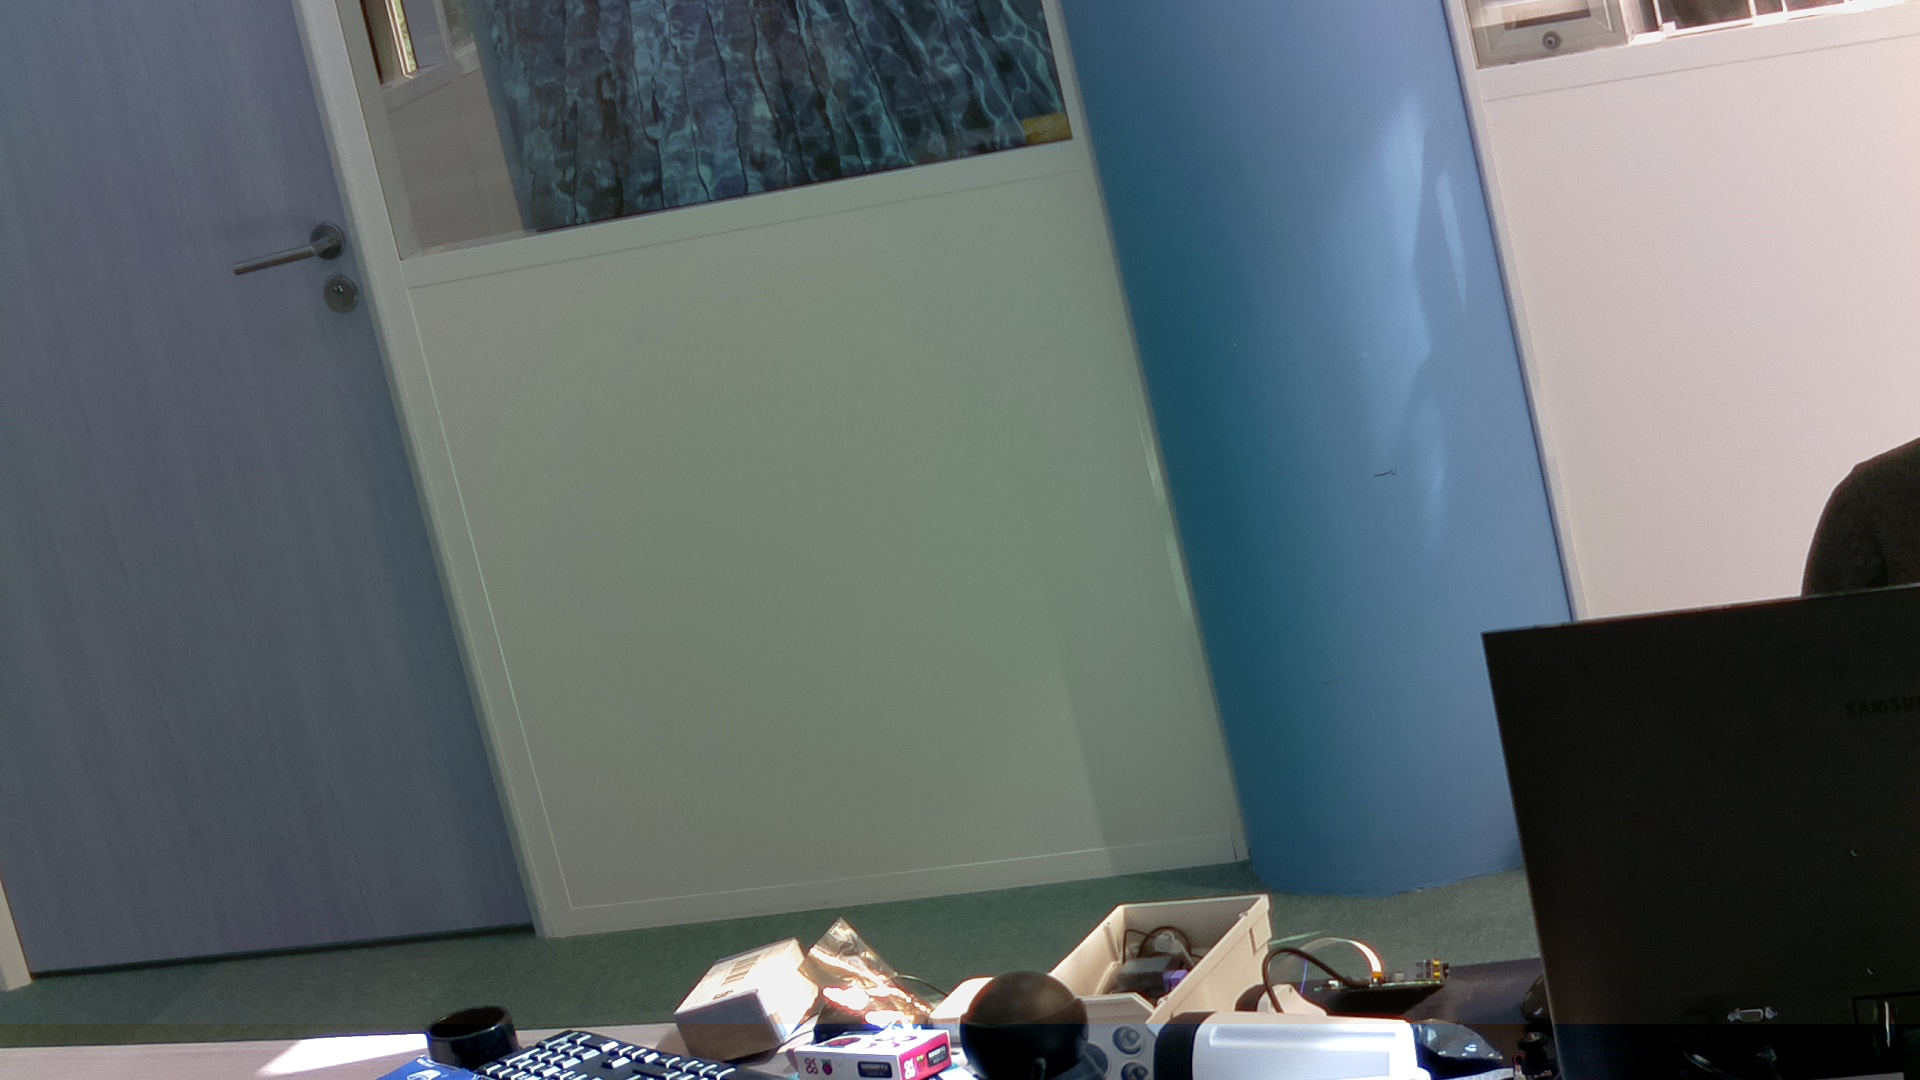
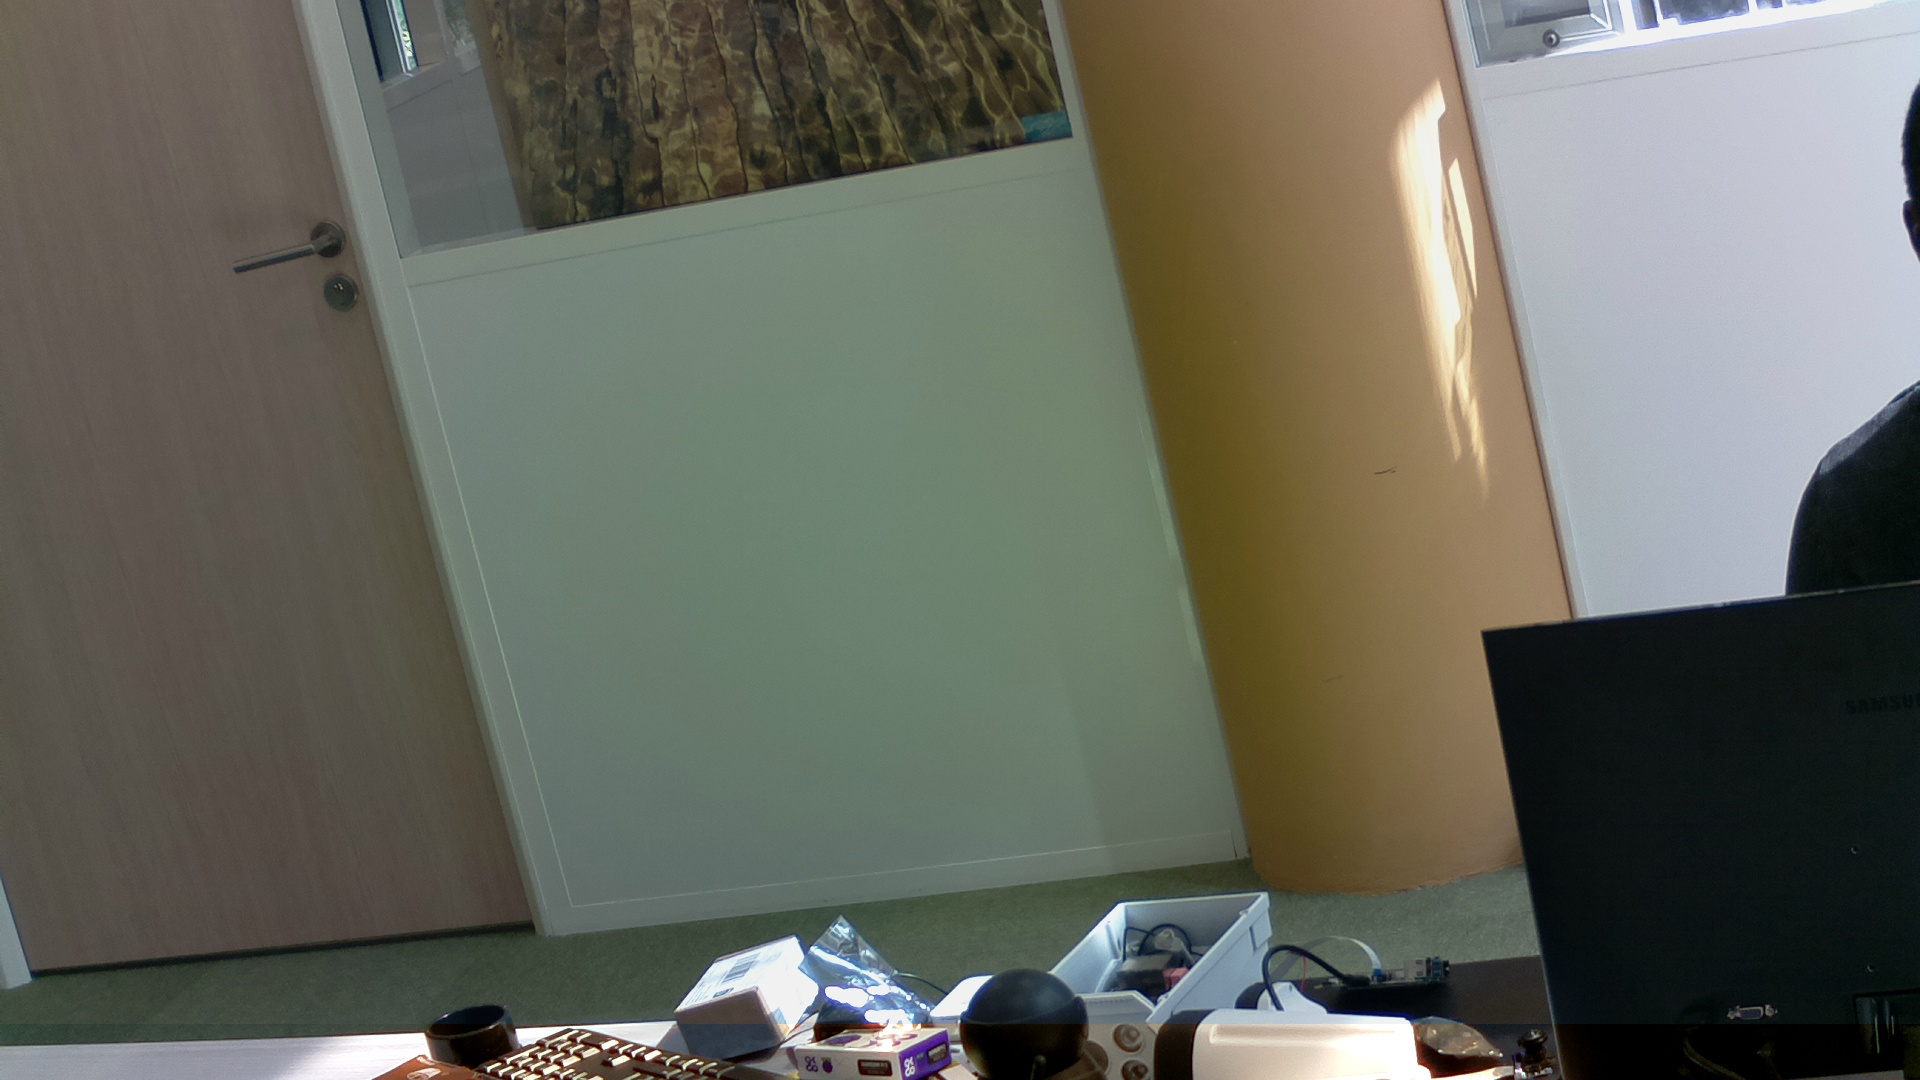
dgg

diff --git a/test.py b/test.py
@@ -12,6 +12,6 @@ while True :
     if _ : 
         print('bon' )
         #writer.write(frame)
-        cv2.imwrite("img_bon223.jpg" , frame[:::,:::,:::-1) 
+        cv2.imwrite("img_bon223.jpg" , frame[::,::,::-1]) 
     else : print("pas bien ") 
 
